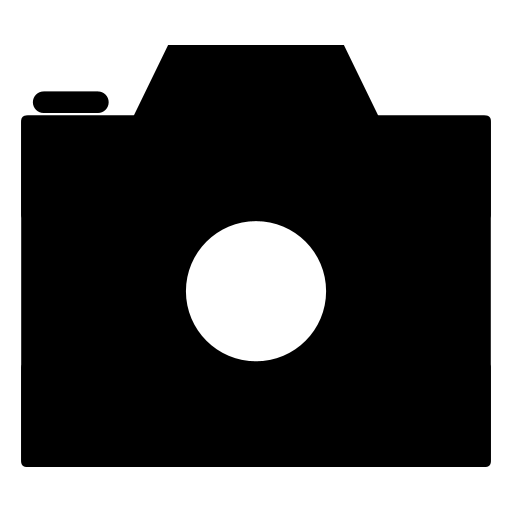
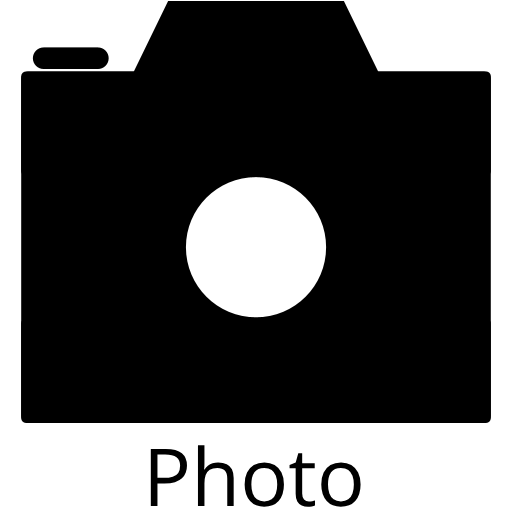
Polished home page
Added score number to top right of history images.
Added text below upload and camera buttons.
Reworked history system to use a single json object instead of multiple maps.

Changed region(s): [[0.0312, 0.8125, 0.9688, 1.0], [0.0312, 0.0, 0.9688, 0.25], [0.3438, 0.3438, 0.6562, 0.7188]]

diff --git a/lib/src/home_page/home_page.dart b/lib/src/home_page/home_page.dart
@@ -68,8 +68,8 @@ class _HomePageState extends State<HomePage> {
     final XFile? pickedFile =
         await picker.pickImage(source: ImageSource.gallery);
     if (pickedFile != null) {
-      History.appendHistory(pickedFile.path,
-          ""); // This needs to be moved to the analysis page later
+      await History.append(HistoryEntry(pickedFile.path, "",
+          100)); // This needs to be moved to the analysis page later
       setState(() {});
 
       // Must be mounted to use the Navigator in an async function
@@ -94,28 +94,36 @@ class _HomePageState extends State<HomePage> {
   }
 
   Future<Widget> historyFuture() async {
-    List<String> historyPaths = await History.getHistoryPaths();
-    List<Image> historyImages = List.empty(growable: true);
-
-    for (final String path in historyPaths) {
-      historyImages.add(Image.file(File(path)));
-    }
+    List<HistoryEntry> history = await History.getHistory();
 
     return GridView.count(crossAxisCount: 2, children: [
-      for (int i = 0; i < historyImages.length; i++)
+      for (int i = 0; i < history.length; i++)
         GestureDetector(
             child: Padding(
                 padding: const EdgeInsets.all(4.0),
                 child: Card(
                     clipBehavior: Clip.hardEdge,
-                    child:
-                        FittedBox(fit: BoxFit.cover, child: historyImages[i]))),
+                    elevation: 10.0,
+                    child: Stack(fit: StackFit.passthrough, children: [
+                      FittedBox(
+                        fit: BoxFit.cover,
+                        child: Image.file(File(history[i].imgPath)),
+                      ),
+                      Container(
+                          alignment: Alignment.topRight,
+                          child: Text(history[i].overallScore.toString(),
+                              style: const TextStyle(
+                                fontSize: 20.0,
+                                color: Colors.white,
+                                backgroundColor: Colors.green,
+                              )))
+                    ]))),
             onTap: () {
               Navigator.push(
                   context,
                   MaterialPageRoute(
                       builder: (context) =>
-                          AnalysisPage(imagePath: historyPaths[i])));
+                          AnalysisPage(imagePath: history[i].imgPath)));
             },
             onLongPressStart: (LongPressStartDetails details) {
               showMenu(
@@ -124,9 +132,9 @@ class _HomePageState extends State<HomePage> {
                     PopupMenuItem(
                         child: TextButton(
                             child: const Text("Delete"),
-                            onPressed: () {
+                            onPressed: () async {
                               Navigator.pop(context); // Close showMenu popup
-                              History.removeHistory(i);
+                              await History.remove(i);
                               setState(() {});
                             }))
                   ],

diff --git a/lib/src/history.dart b/lib/src/history.dart
@@ -1,10 +1,32 @@
+import 'dart:convert';
+
 import 'package:shared_preferences/shared_preferences.dart';
 
-class History {
-  static const historyPathKey = "history_path";
-  static const historyAnalysesKey = "history_analyses";
+class HistoryEntry {
+  String imgPath;
+  String jsonAnalysis;
+  int overallScore;
 
-  static void _append(String key, String value) async {
+  HistoryEntry(this.imgPath, this.jsonAnalysis, this.overallScore);
+
+  Map toJson() {
+    return {
+      "imgPath": imgPath,
+      "jsonAnalysis": jsonAnalysis,
+      "overallScore": overallScore
+    };
+  }
+
+  HistoryEntry.fromJson(Map<String, dynamic> json)
+      : imgPath = json["imgPath"] ?? "",
+        jsonAnalysis = json["jsonAnalysis"] ?? "",
+        overallScore = json["overallScore"] ?? 100;
+}
+
+class History {
+  static const key = "history_key";
+
+  static Future<void> append(HistoryEntry entry) async {
     final prefs = await SharedPreferences.getInstance();
     List<String> arr = List.empty(growable: true);
 
@@ -12,40 +34,25 @@ class History {
       arr = prefs.getStringList(key)!.toList(growable: true);
     }
 
-    arr.insert(0, value);
+    arr.insert(0, jsonEncode(entry));
     prefs.setStringList(key, arr);
   }
 
-  static void appendHistory(String imgPath, String strJsonAnalysis) async {
-    _append(historyPathKey, imgPath);
-    _append(historyAnalysesKey, strJsonAnalysis);
-  }
-
-  static void _remove(String key, int index) async {
+  static Future<void> remove(int index) async {
     final prefs = await SharedPreferences.getInstance();
 
     if (prefs.containsKey(key) && prefs.getStringList(key) != null) {
-      List<String> historyPaths =
-          prefs.getStringList(key)!.toList(growable: true);
-      historyPaths.removeAt(index);
-      prefs.setStringList(key, historyPaths);
+      List<String> history = prefs.getStringList(key)!.toList(growable: true);
+      history.removeAt(index);
+      prefs.setStringList(key, history);
     }
   }
 
-  static void removeHistory(int index) async {
-    _remove(historyPathKey, index);
-    _remove(historyAnalysesKey, index);
-  }
-
-  static Future<List<String>> getHistoryPaths() async {
+  static Future<List<HistoryEntry>> getHistory() async {
     final prefs = await SharedPreferences.getInstance();
-    List<String>? historyPaths = prefs.getStringList(historyPathKey);
-    return historyPaths == null ? [] : historyPaths.toList();
-  }
-
-  static Future<List<String>> getHistoryAnalyses() async {
-    final prefs = await SharedPreferences.getInstance();
-    List<String>? historyPaths = prefs.getStringList(historyAnalysesKey);
-    return historyPaths == null ? [] : historyPaths.toList();
+    final List<String> jsonHistory = prefs.getStringList(key) ?? [];
+    final List<HistoryEntry> history =
+        jsonHistory.map((e) => HistoryEntry.fromJson(jsonDecode(e))).toList();
+    return history;
   }
 }
